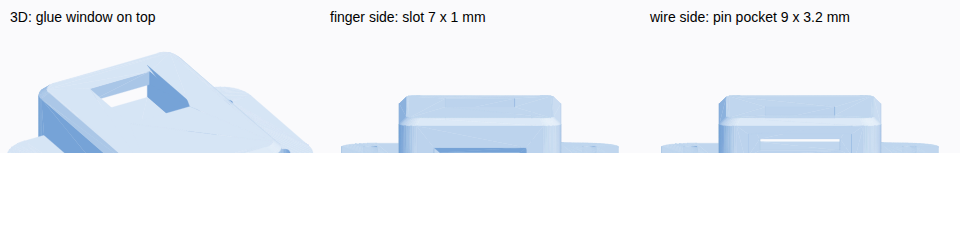
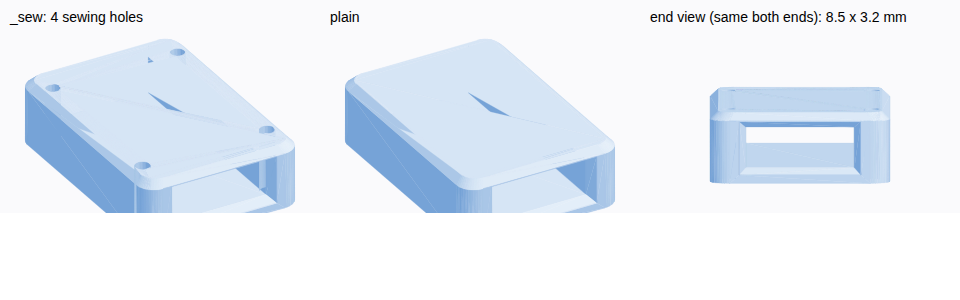
Hardware: anchor without flange or window, same opening at both ends, sew version

diff --git a/hardware/flex-guide/make_anchor.py b/hardware/flex-guide/make_anchor.py
@@ -1,13 +1,11 @@
 """
 Base holder (anchor) for the connector end of a flex sensor on the Ishara glove. Units: mm.
-X = across the hand, Y = along the sensor (finger side at -Y, wires leave at +Y), Z = height.
+X = across the hand, Y = along the sensor, Z = height.
 
-  body:    14 (W) x 20 (L) x 5.5 (H), rounded, chamfered top, on a 24 x 16 x 1.5 sewing flange
-  slot:    7.0 x 1.0 for the sensor's stiff end, y = -10 .. -2, floor at z = 1.5, flared entry
-  pocket:  9.0 x 3.2 for the 2 crimp pins, the solder joints and heat shrink, y = -2 .. +10,
-           open at the back so the wires leave
-  window:  6 x 7 opening in the roof over the pocket, to check the joints and fill with hot glue
-  holes:   4 x 1.2 mm in the flange, for sewing it to the glove
+  body:    14 (W) x 20 (L) x 5.5 (H), rounded corners, chamfered top
+  pocket:  8.5 x 3.2 through the whole length, centred, for the sensor's end, the 2 crimp pins,
+           the solder joints and heat shrink; 0.5 mm flared entries at both ends
+  holes:   4 x 1.2 mm vertical holes in the side walls, for sewing it to the glove (_sew version)
 """
 import sys
 import numpy as np
@@ -16,13 +14,10 @@ from manifold3d import CrossSection, Manifold
 
 W, L, H = 14.0, 20.0, 5.5
 CORNER_R, TOP_CHAMFER = 1.5, 0.6
-FL_W, FL_L, FL_H, FL_R = 24.0, 16.0, 1.5, 3.0
-SLOT_W, SLOT_H, SLOT_Z = 7.0, 1.0, 1.5
-SPLIT_Y = -2.0                                   # slot ends, pocket starts
-POCKET_W, POCKET_Z0, POCKET_Z1 = 9.0, 1.0, 4.2
-WIN_W, WIN_Y0, WIN_Y1 = 6.0, 0.0, 7.0
+POCKET_W, POCKET_H = 8.5, 3.2
+POCKET_Z = (H - POCKET_H) / 2
 FLARE, FLARE_D = 0.5, 0.8
-HOLE_D, HOLE_X, HOLE_Y = 1.2, 9.5, 5.0
+HOLE_D = 1.2
 
 
 def rrect(w, l, r):
@@ -38,25 +33,28 @@ def body():
     lower = Manifold.extrude(rrect(W, L, CORNER_R), H - TOP_CHAMFER)
     top = Manifold.extrude(rrect(W - 2 * TOP_CHAMFER, L - 2 * TOP_CHAMFER, CORNER_R - TOP_CHAMFER / 2), 0.01) \
         .translate([0, 0, H - 0.01])
-    flange = Manifold.extrude(rrect(FL_W, FL_L, FL_R), FL_H)
-    return Manifold.batch_hull([lower, top]) + flange
+    return Manifold.batch_hull([lower, top])
 
 
-def cuts():
-    face = -L / 2
-    c = box(-SLOT_W / 2, SLOT_W / 2, face - 1, SPLIT_Y + 0.5, SLOT_Z, SLOT_Z + SLOT_H)
-    outer = box(-SLOT_W / 2 - FLARE, SLOT_W / 2 + FLARE, face - 0.005, face + 0.005,
-                SLOT_Z - FLARE, SLOT_Z + SLOT_H + FLARE)
-    inner = box(-SLOT_W / 2, SLOT_W / 2, face + FLARE_D - 0.005, face + FLARE_D + 0.005,
-                SLOT_Z, SLOT_Z + SLOT_H)
-    c = c + Manifold.batch_hull([outer, inner]) + box(-SLOT_W / 2 - FLARE, SLOT_W / 2 + FLARE, face, face - 1,
-                                                      SLOT_Z - FLARE, SLOT_Z + SLOT_H + FLARE)
-    c = c + box(-POCKET_W / 2, POCKET_W / 2, SPLIT_Y, L / 2 + 1, POCKET_Z0, POCKET_Z1)
-    c = c + box(-WIN_W / 2, WIN_W / 2, WIN_Y0, WIN_Y1, POCKET_Z1 - 0.1, H + 1)
+def pocket():
+    z0, z1 = POCKET_Z, POCKET_Z + POCKET_H
+    c = box(-POCKET_W / 2, POCKET_W / 2, -L / 2 - 1, L / 2 + 1, z0, z1)
+    for sign in (-1, 1):
+        face = sign * L / 2
+        outer = box(-POCKET_W / 2 - FLARE, POCKET_W / 2 + FLARE, face - 0.005, face + 0.005, z0 - FLARE, z1 + FLARE)
+        inner = box(-POCKET_W / 2, POCKET_W / 2, face - sign * FLARE_D - 0.005, face - sign * FLARE_D + 0.005, z0, z1)
+        cap = box(-POCKET_W / 2 - FLARE, POCKET_W / 2 + FLARE, face, face + sign * 1.0, z0 - FLARE, z1 + FLARE)
+        c = c + Manifold.batch_hull([outer, inner]) + cap
+    return c
+
+
+def holes():
+    out = Manifold()
+    x = (W / 2 + POCKET_W / 2) / 2                  # middle of each side wall
     for sx in (-1, 1):
         for sy in (-1, 1):
-            c = c + Manifold.cylinder(FL_H + 2, HOLE_D / 2, HOLE_D / 2, 32).translate([sx * HOLE_X, sy * HOLE_Y, -1])
-    return c
+            out = out + Manifold.cylinder(H + 2, HOLE_D / 2, HOLE_D / 2, 32).translate([sx * x, sy * (L / 2 - 3), -1])
+    return out
 
 
 def save(m, path):
@@ -71,6 +69,10 @@ def save(m, path):
 
 if __name__ == "__main__":
     out = sys.argv[1] if len(sys.argv) > 1 else "."
-    name = f"{out}/ishara_flex_anchor_14x20x5.5.stl"
-    t = save(body() - cuts(), name)
-    print(name, "size", np.round(t.bounds[1] - t.bounds[0], 2), "volume", round(t.volume, 1), "mm3")
+    for sew in (True, False):
+        m = body() - pocket()
+        if sew:
+            m = m - holes()
+        name = f"{out}/ishara_flex_anchor_14x20x5.5{'_sew' if sew else ''}.stl"
+        t = save(m, name)
+        print(name, "size", np.round(t.bounds[1] - t.bounds[0], 2), "volume", round(t.volume, 1), "mm3")

diff --git a/hardware/flex-guide/README.md b/hardware/flex-guide/README.md
@@ -17,20 +17,20 @@ A 3D-printed guide that holds a flex sensor on the back of a finger while lettin
 
 # Anchor (base holder at the pins)
 
-Holds the sensor's connector end fixed on the back of the hand, before the knuckle, so the sensor slides in the finger guides while its pins don't move. One per finger.
+Holds the sensor's connector end fixed on the back of the hand, before the knuckle, so the sensor slides in the finger guides while its pins don't move. One per finger. Same width as the finger guides.
 
 | | |
 |---|---|
-| Body | 14 mm wide × 20 mm long × 5.5 mm high, on a 24 × 16 × 1.5 mm flange |
-| Slot (finger side, 8 mm) | 7.0 × 1.0 mm for the sensor's stiff end, flared entry |
-| Pin pocket (wire side, 12 mm) | 9.0 × 3.2 mm for the 2 crimp pins, solder joints and heat shrink, open at the back for the wires |
-| Window | 6 × 7 mm in the roof over the pocket: check the joints don't touch, then fill the pocket with hot glue so bending pulls on the holder, not on the pins |
-| Holes | 4 × 1.2 mm in the flange, for sewing it to the glove |
+| Body | 14 mm wide × 20 mm long × 5.5 mm high, rounded corners |
+| Opening | 8.5 × 3.2 mm through the whole length, the same at both ends, flared 0.5 mm at the entries. The sensor's end, the 2 crimp pins, the solder joints and heat shrink sit inside; the wires leave at the back |
+| `_sew` version | 4 × 1.2 mm holes in the side walls, for sewing it to the glove (about 0.8 mm of wall either side of each hole) |
 
 ![anchor preview](anchor_preview.png)
 
-The pin pocket size is from the sensor's typical crimp size, not measured on our sensors; measure the end with its solder joints and heat shrink before printing, and change `POCKET_W` / `POCKET_Z1` if needed.
+To lock the pins, fill the opening with hot glue from the wire end once the sensor is in and tested, so bending pulls on the holder, not on the pins.
 
-**Printing:** flat on the flange, no support (the widest bridge is 9 mm), 100 % infill. 5 plus 2 spares.
+The opening size is from the sensor's typical crimp size, not measured on our sensors; measure the end with its solder joints and heat shrink before printing, and change `POCKET_W` / `POCKET_H` if needed.
+
+**Printing:** standing on an end face (opening vertical), no support, 100 % infill. 5 plus 2 spares.
 
 **Regenerate:** `python make_anchor.py .`
